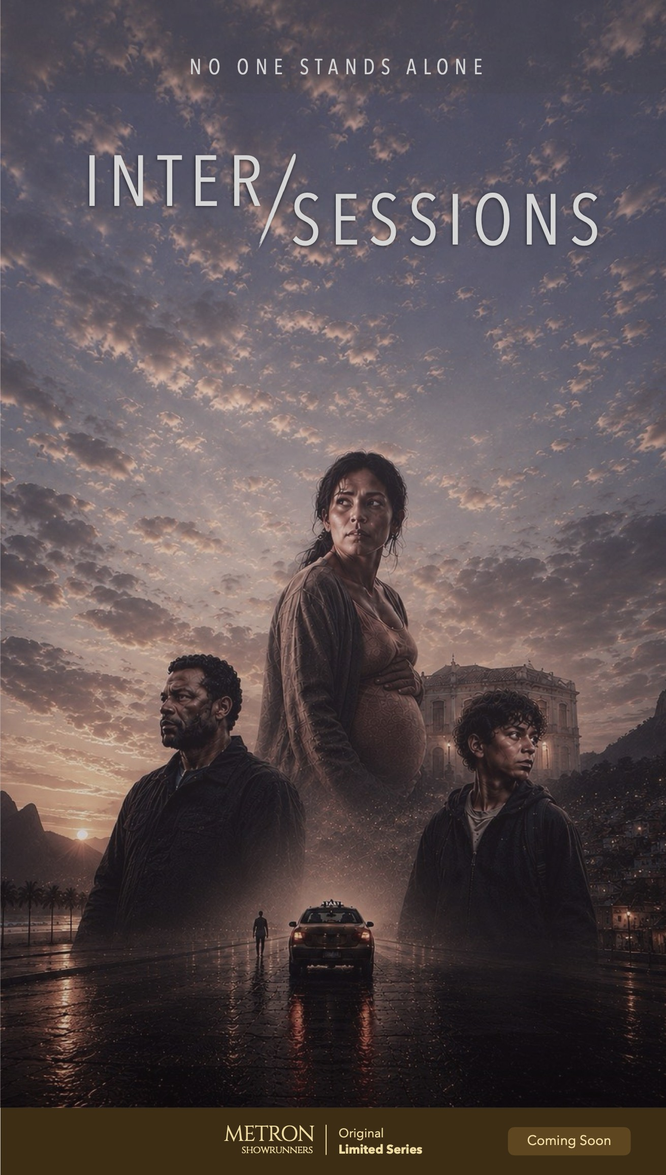
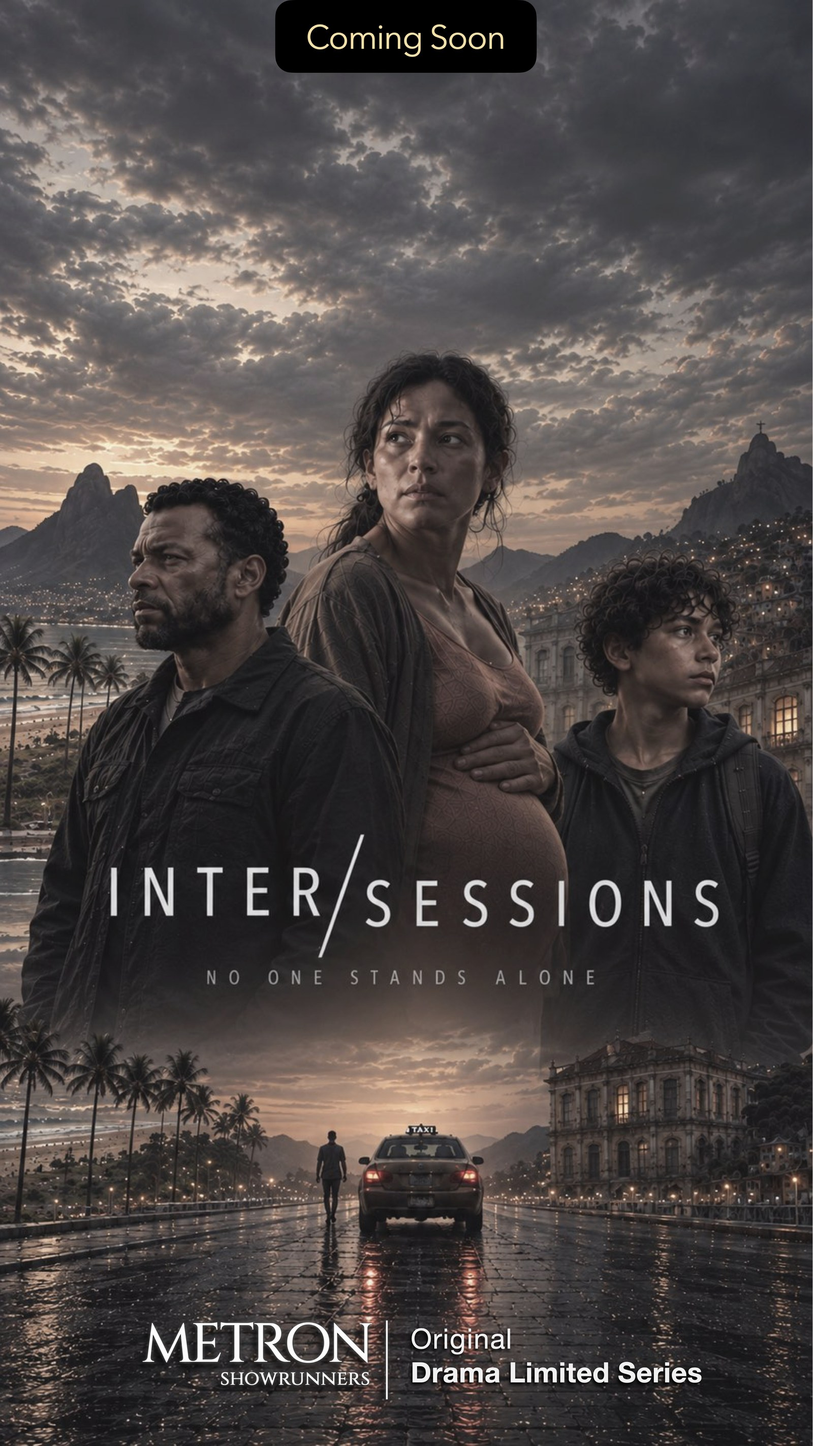
novas imagens e botao (portrait)

diff --git a/tests/seed.spec.ts b/tests/seed.spec.ts
@@ -3,11 +3,12 @@ import { expect, test } from '@playwright/test';
 /* Roda contra o PREVIEW (`npm run build && npm run preview`), nos três perfis
    de iPhone — ou seja, sempre em portrait.
 
-   Contra o `astro dev` NÃO funciona, e falha de um jeito que engana: a
-   <astro-dev-toolbar> fica ancorada no rodé da viewport, exatamente sobre a
-   faixa que .footer-link ocupa (os últimos ~5% da arte). Ela intercepta o
-   clique; o Playwright tenta de novo até o autoplay trocar de slide, e aí a
-   mensagem vira "element is not visible", que aponta para o lugar errado.
+   Contra o `astro dev` pode falhar de um jeito que engana: a
+   <astro-dev-toolbar> se ancora no rodapé da viewport. Até 2026-09-19 isso
+   sempre colidia com a .footer-link (uma faixa nos últimos ~5% da arte); com
+   o botão desenhado no topo da arte (ver comentário mais abaixo) a colisão
+   deixou de ser garantida, mas o teste continua valendo como checagem geral
+   de que a suíte não está rodando contra o dev por engano.
    O primeiro teste abaixo existe para dizer isso em um segundo. */
 
 test('a suíte está rodando contra o preview, não contra o dev', async ({
@@ -30,21 +31,14 @@ test('a suíte está rodando contra o preview, não contra o dev', async ({
   ).toBe(0);
 });
 
-/* Onde começa a barra marrom do rodapé na arte portrait da Hybris, medido por
-   pixel: 2196 de 2311 (95.02%). Trocou a arte, meça de novo.
-
-   O Not Even Death tem a sua própria medida: a arte dele é outra (1313x2329),
-   e a barra começa em 2198, ou seja 94.38%. Até 2026-09-13 ele não estava
-   nesta lista, porque o destino não existia e havia no lugar uma pastilha
-   "Coming Soon".
-
-   Isto tudo vale só pra arte portrait (a suíte roda em perfis de iPhone —
-   ver comentário no topo do arquivo). Em 2026-09-18 a arte landscape virou
-   16:9 com o botão desenhado no topo em vez da barra no rodapé, mas a
-   portrait ainda é a antiga até a versão 16:9 dela chegar; por isso os
-   índices abaixo (dot/slide) já refletem a nova ordem do carrossel — Laya,
-   Inter/Sessions, Hybris, Mrs. Steele, Not Even Death, Cell Phone — mas as
-   % de rodapé continuam as mesmas. */
+/* A suíte roda em perfis de iPhone (portrait — ver comentário no topo do
+   arquivo). Em 2026-09-19 a arte portrait passou a ter o mesmo botão
+   desenhado no topo que a landscape (16:9, ver index.astro), substituindo a
+   faixa marrom que ficava no rodapé — por isso não há mais % por slide: é a
+   mesma caixa .footer-link para os três, perto do topo da arte (ver o teste
+   "fica alinhado" abaixo). Índices (dot/slide) refletem a ordem do
+   carrossel — Laya, Inter/Sessions, Hybris, Mrs. Steele, Not Even Death,
+   Cell Phone. */
 const SLIDES_COM_LINK = [
   {
     nome: 'Hybris',
@@ -52,7 +46,6 @@ const SLIDES_COM_LINK = [
     slide: 2,
     href: 'https://files.hybris.world/',
     aria: /Hybris Project/,
-    footerTopPct: 95.02,
   },
   {
     nome: 'Laya',
@@ -60,8 +53,6 @@ const SLIDES_COM_LINK = [
     slide: 0,
     href: 'https://youtu.be/bXL5xmmQPys',
     aria: /Laya teaser/,
-    // A arte da Laya tem a barra em 94.51%, nao nos 95.02% da do Hybris.
-    footerTopPct: 94.51,
   },
   {
     nome: 'Not Even Death',
@@ -69,7 +60,6 @@ const SLIDES_COM_LINK = [
     slide: 4,
     href: 'https://files-ned.metronshowrunners.com/',
     aria: /view the script/,
-    footerTopPct: 94.38,
   },
 ];
 
@@ -97,7 +87,7 @@ for (const ip of SLIDES_COM_LINK) {
     await expect(link).toHaveAttribute('aria-label', ip.aria);
   });
 
-  test(`o link do rodapé de ${ip.nome} fica alinhado com a barra`, async ({
+  test(`o botão de ${ip.nome} fica no topo, centralizado com a pílula`, async ({
     page,
   }) => {
     await page.goto('/');
@@ -108,12 +98,19 @@ for (const ip of SLIDES_COM_LINK) {
     const img = await page.locator(`${slide} .keyart-img`).boundingBox();
     expect(link && img).toBeTruthy();
 
+    // .footer-link em portrait é left:25%/right:25%/top:0/bottom:94% do
+    // .slide (ver index.astro) — encosta no topo e tem 6% da altura da
+    // arte, centralizado na largura. Números fixos porque a caixa é a
+    // mesma pros três slides, não medida por pixel de cada arte.
     const topPct = ((link!.y - img!.y) / img!.height) * 100;
-    expect(topPct).toBeCloseTo(ip.footerTopPct, 0);
+    expect(topPct).toBeCloseTo(0, 0);
 
-    // Sem isto sobraria uma tira não clicável no pé.
-    const bottomGap = img!.y + img!.height - (link!.y + link!.height);
-    expect(Math.abs(bottomGap)).toBeLessThan(2);
+    const heightPct = (link!.height / img!.height) * 100;
+    expect(heightPct).toBeCloseTo(6, 0);
+
+    const linkCenterX = link!.x + link!.width / 2;
+    const imgCenterX = img!.x + img!.width / 2;
+    expect(Math.abs(linkCenterX - imgCenterX)).toBeLessThan(2);
   });
 }
 
